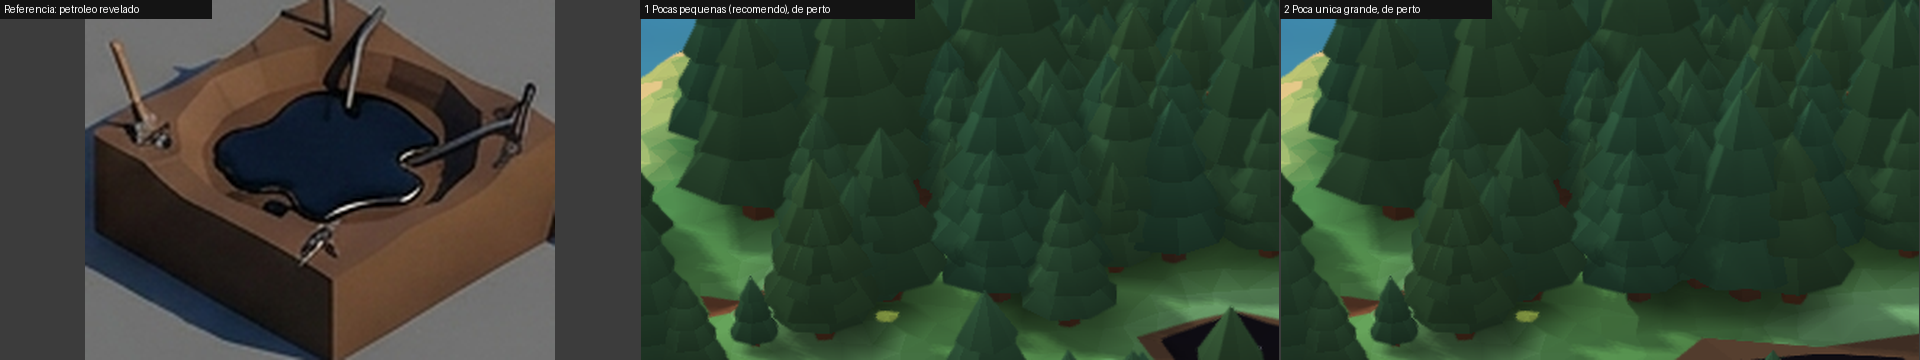
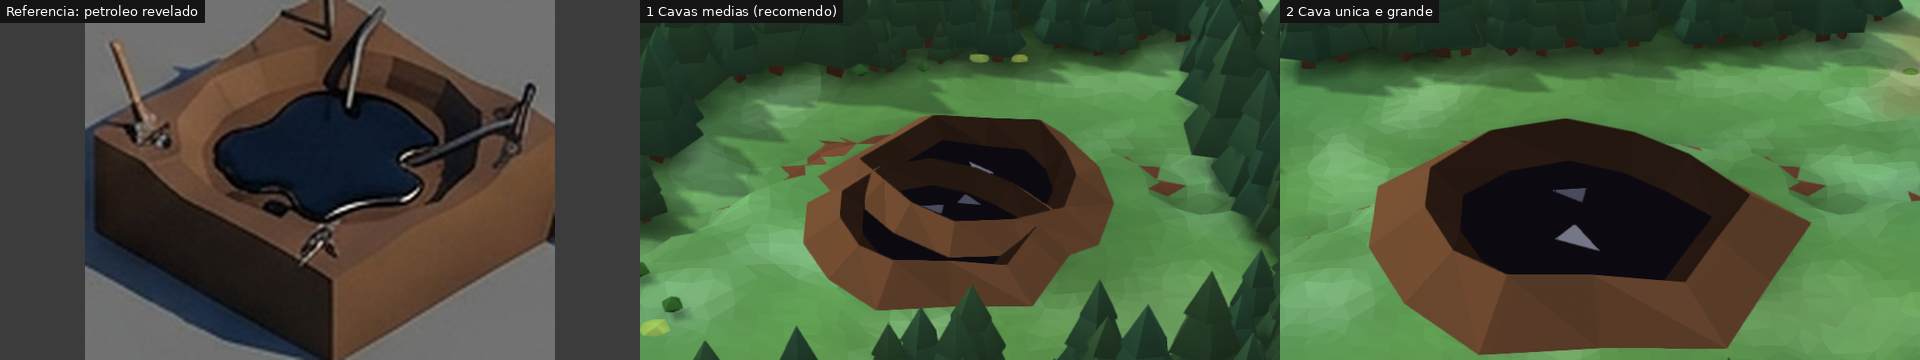
docs(m3): opções de ritmo do tempo, página de decisões no Firefox e lista de espécies; rios recalculados no máximo a cada 3 s

diff --git a/src/maquete/worker.ts b/src/maquete/worker.ts
@@ -17,6 +17,7 @@ export type FromMaqueteWorker =
 let world: CoarseWorld | null = null;
 let hydro: Hydro | null = null;
 let neighbors: Int32Array | null = null;
+let hydroAt = -Infinity;
 const scope = self as unknown as { postMessage(m: FromMaqueteWorker, t?: Transferable[]): void; onmessage: (e: MessageEvent<ToMaqueteWorker>) => void };
 
 /** Compara duas cópias e devolve os pedaços afetados (a borda de um pedaço enxerga 3 células de fora). */
@@ -43,7 +44,10 @@ scope.onmessage = (e) => {
     setDepositLook(m.stones, m.oil);
     // Os rios só mudam quando o relevo muda.
     const sameHeight = world && world.n === m.world.n && world.height.every((h, i) => h === m.world.height[i]);
-    if (!sameHeight || !hydro) {
+    // Os rios são caros (cerca de 200 ms): no máximo um recálculo a cada 3 s, para não atrasar os pedaços.
+    const nowMs = performance.now();
+    if (!hydro || (!sameHeight && nowMs - hydroAt > 3000)) {
+      hydroAt = nowMs;
       neighbors ??= neighborTable(m.world.n);
       hydro = computeHydro(m.world.n, m.world.height, m.world.rgba, m.world.ice, neighbors);
     }

diff --git a/docs/M3-decisoes-maquete.md b/docs/M3-decisoes-maquete.md
@@ -1,50 +1,53 @@
 # Decisões visuais da maquete
 
-Capturas numa janela de navegador de 1920×1080, reduzidas na folha, ao lado das referências. Sempre no mesmo lugar e com o mesmo mundo (semente `terra`). Para ver no jogo, acrescente à URL da prévia: `?relevo=`, `?pedras=`, `?oleo=`, `?aa=`.
+Capturas no **Firefox 158, em janela de 1920×1080**, reduzidas na folha, ao lado das referências. Mesmo mundo (semente `terra`) e mesmo lugar em cada comparação. Para ver no jogo, acrescente à URL da prévia: `&relevo=`, `&pedras=`, `&oleo=`, `&aa=`.
 
-GPU medida na entrada da maquete, build de desenvolvimento, sem janela, 1080p, numa rodada só: diferenças de menos de 0,5 ms ficam dentro da variação.
+GPU medida no Chromium com o relógio da GPU, numa rodada só, antes destes últimos ajustes; diferenças de menos de 0,5 ms ficam dentro da variação. O seu relatório no Firefox decide.
 
 ## 1. Relevo
 ![relevo](img/m3/dec-relevo.png)
 
-| Opção | Encosta entre patamares | Terra à mostra | GPU |
-|---|---|---|---:|
-| **1 Terraços ligados (recomendo, já no jogo)** `terraco` | 1,3 célula de largura, inclinação ~0,5 | sim | 6,4 ms |
-| 2 Rampas longas `rampa` | 5 células, inclinação ~0,12 | não | 6,6 ms |
-| 3 Degrau alto `degrau` | 0,55 célula, inclinação ~1,1 | sim | 7,0 ms |
-| 4 Encosta lisa `lisa` | sem patamar | não | 6,9 ms |
-
-**Recomendo a 1:** é a mais próxima dos blocos 4 e 5 e ninguém fica preso, porque a inclinação cabe numa caminhada. As inclinações são conta, sem teste: ainda não há humanos andando (M4). Em todas, penhasco alto continua só na montanha e o deserto mantém os patamares largos.
-
-## 2. Pedrinhas das jazidas
-![pedras](img/m3/dec-pedras.png)
-
-| Opção | O que é | GPU |
+| Opção | Encosta entre patamares | GPU |
 |---|---|---:|
-| **1 Amontoados grandes (recomendo, já no jogo)** | 2 por célula, tamanho da folha | 6,4 ms |
-| 2 Pedras miúdas `pedras=miudas` | 4 por célula, metade do tamanho | 6,6 ms |
+| **1 Terraços ligados (recomendo, no jogo)** `terraco` | Curta, com terra à mostra | 6,4 ms |
+| 2 Rampas longas `rampa` | Larga, sem terra | 6,6 ms |
+| 3 Degrau alto `degrau` | Quase parede, com terra | 7,0 ms |
+| 4 Encosta lisa `lisa` | Sem patamar | 6,9 ms |
 
-**Recomendo a 1:** é a proporção de `recursos/jazidas.png` e dá para reconhecer o minério na entrada da maquete.
+**Recomendo a 1:** é a mais próxima dos blocos 4 e 5. Ninguém anda ainda de verdade neles: isso só será testado com os humanos (M4).
+
+## 2. Jazidas: afloramento de rocha manchada
+![jazidas](img/m3/dec-pedras.png)
+
+| Opção | O que é |
+|---|---|
+| **1 Lajes baixas (recomendo, no jogo)** | Uma laje por célula, com a mancha do minério no chão |
+| 2 Lajes menores, em dobro `pedras=miudas` | Duas por célula, menores, mais espalhadas |
+
+**Recomendo a 1:** lê como rocha aflorando, sem virar monte. **A referência serve só para a cor:** a sua decisão trocou os montes da folha pelo afloramento, e não há folha desenhada dele.
 
 ## 3. Petróleo aparente
-![óleo](img/m3/dec-oleo.png)
+![petróleo](img/m3/dec-oleo.png)
 
-| Opção | O que é | GPU |
-|---|---|---:|
-| **1 Poças pequenas (recomendo, já no jogo)** | até 1 poça em cada 3 células da mancha aparente | sem diferença medida |
-| 2 Poça única grande `oleo=unica` | 1 em cada 8 células, o dobro do tamanho | sem diferença medida |
+| Opção | O que é |
+|---|---|
+| **1 Cavas médias (recomendo, no jogo)** | Cerca de 1 cava a cada 5 células da mancha aparente |
+| 2 Cava única e grande `oleo=unica` | 1 cava a cada 10 células, maior |
 
-**Recomendo a 1:** a mancha lê como campo de petróleo sem abrir crateras no terreno. **Limite:** na semente `terra` só há mancha aparente dentro da taiga, por isso a poça aparece entre os pinheiros, com as árvores abrindo espaço. Em qualquer opção, a poça é só desenho: o globo e o mundo não mudam (`docs/M3-maquete.md`).
+**Recomendo a 1:** uma cava sozinha fica fácil de achar, e várias perto contam que ali há um campo. Em ambas, as árvores abrem espaço em volta.
 
 ## 4. Suavização
-Recorte aumentado 4×, para ver as bordas; em tamanho normal a diferença é bem menor.
+Recorte aumentado 4×; em tamanho normal a diferença é bem menor.
 
 ![suavização](img/m3/dec-suavizacao.png)
 
-| Opção | Entrada | De perto | Efeito |
+| Opção | GPU, entrada | GPU, de perto | Efeito |
 |---|---:|---:|---|
-| **FXAA (recomendo, já no jogo)** | 6,4 ms | 5,6 ms | Bordas lisas; interior das faces um pouco mais macio |
+| **FXAA (recomendo, no jogo)** | 6,4 ms | 5,6 ms | Bordas lisas, faces um pouco mais macias |
 | MSAA 4× `aa=msaa4` | **12,0 ms** | **9,1 ms** | Bordas mais nítidas; **estoura a meta de 8 ms** |
 | Sem suavização `aa=off` | 5,2 ms | 4,5 ms | Serrilhado visível |
 
-**Recomendo FXAA.** O MSAA 4× só caberia baixando outra coisa, então fica fora, a não ser que você prefira assim.
+## 5. Animais
+![animais](img/m3/dec-animais.png)
+
+Corpos mais cheios, em grupos por espécie, andando e comendo com movimento contínuo. **Ainda diferem das folhas:** silhueta mais simples, com listras e pintas por faceta. Sua decisão aqui é: **está bom para seguir, ou quer outra rodada de forma antes da ecologia.** Recomendo seguir e voltar à forma no acabamento (M8), porque a ecologia muda só o comportamento.

diff --git a/docs/M3-ritmo-do-tempo.md b/docs/M3-ritmo-do-tempo.md
@@ -1,0 +1,16 @@
+# Decisão: o ritmo do tempo na maquete (B1)
+
+**O problema:** em 1×, um ano de jogo passa em 1 segundo. O mundo está em escala de anos e o animal está em escala de segundos: a floresta queima e volta enquanto o animal dá uns 5 passos. Hoje a simulação continua igual; nada desta página tem código.
+
+| Opção | O que se vê | Trabalho | Desempenho | O que muda no jogo |
+|---|---|---|---:|---|
+| 1 Tempo desacelera sozinho na maquete | Em 1×, ao entrar, o tempo cai para ~1/12 (1 mês por segundo); o fogo anda em minutos. Ao sair, volta | Pouco | Melhor: menos passos | O planeta anda mais devagar enquanto se olha de perto; o selo mostra "1×" e o ritmo da maquete. Uma data nova, por mês |
+| 2 Fogo e desastres só desenhados devagar | O relógio não muda; o fogo se espalha aos poucos no desenho, atrás do que já aconteceu | Grande: um "atraso" para cada efeito, com regras de quando alcançar | Um pouco pior | O mundo não muda, mas o que se vê fica atrás do que é verdade: o toque e o desenho podem discordar |
+| 3 Animais aceleram com o tempo | Animais a 12× e mais: correm como em filme acelerado | Mínimo | Igual | Nada muda no mundo, mas não fica liso nem bonito de ver |
+| 4 Eventos mais demorados na simulação | Fogo e recuperação levam 10 a 30× mais anos, no globo também | Médio: mexe em fogo, seca e recuperação, e nos testes | Igual | Muda o que foi aprovado no M2: no globo o incêndio dura dezenas de anos de jogo |
+| **5 Misto: 1 com o desenho suave (recomendo)** | Na maquete, ~1/12 do tempo; chamas e mudas entrando aos poucos entre um passo e outro | Médio | Melhor: menos passos | Como a 1. Acima de 1× (5×, 20×, Máx), o tempo segue como escolhido e sem desacelerar |
+| 6 Deixar como está | O que se vê hoje | Nenhum | Igual | Nada |
+
+**Recomendo a 5:** é a única em que fogo, animais e chuva ficam na mesma escala, e o resto do mundo segue fiel. O efeito a saber: enquanto você olha de perto em 1×, o planeta inteiro anda mais devagar. A escolha de 5×, 20× ou Máx continua valendo na hora, e o relógio nunca muda sem aparecer na tela.
+
+**Se você escolher a 1 ou a 5:** a data passa a mostrar o mês na maquete. A ecologia do bloco seguinte anda no mesmo relógio.

diff --git a/docs/estado-atual.md b/docs/estado-atual.md
@@ -6,9 +6,11 @@ O Claude Code reescreve este arquivo ao fim de cada tarefa. Se outro documento d
 estamos", vale este.
 
 ## Bloco "fazer a maquete funcionar"
+**Parado no fim do bloco, esperando o usuário:** testes, "Medir desempenho" no Firefox em tela cheia, e as decisões: ritmo do tempo (`docs/M3-ritmo-do-tempo.md`), visuais (`docs/M3-decisoes-maquete.md`), lista de espécies (`docs/M3-lista-especies.md`). Depois: simulação da ecologia, a partir da E1.
+
 Decisões em `docs/decisoes.md`. **A medição que vale é o "Medir desempenho" no Firefox do usuário, em tela cheia, na tomada;** as capturas também saem do Firefox, em janela de 1920×1080.
 - [x] A1 tranco no corte (`docs/M3-defeitos.md`) · [x] A2 setas (parcial, ver `docs/M3-defeitos.md`) · [x] A3 pausa · [x] A4 animal sem cabeça · [x] A5 bolas brancas · [x] A6 mancha do terremoto · [x] A7 fumaça · [x] A8 GPU da transição (`docs/M3-defeitos.md`)
-- [ ] B1 opções de ritmo · [x] B2 animação lisa · [x] B3 seca suave
+- [x] B1 opções de ritmo (`docs/M3-ritmo-do-tempo.md`; sem código até a escolha) · [x] B2 animação lisa · [x] B3 seca suave
 - [x] C1 meteoro · [x] C2 tsunami · [x] C3 furacão · [x] C4 raio · [x] C5 fogo (ritmo depende de B1) · [x] C6 tempestade de areia · [x] C7 terremoto
 - [x] D1 animais (corpo e rig; conferir nas folhas) · [x] D2 grupos · [x] D3 geleira · [x] D4 deserto · [x] D5 montanhas · [x] D6 terraços · [x] D7 jazidas · [x] D8 petróleo
 

diff --git a/docs/M3-lista-especies.md b/docs/M3-lista-especies.md
@@ -1,0 +1,14 @@
+# Decisão: lista de espécies no menu, com ícones no globo
+
+Maquetes de interface sobre uma captura do Firefox a 1920×1080. **Os números são de exemplo:** a população só existe depois da ecologia (E2). Nada desta página tem código.
+
+![opções](img/m3/dec-especies.png)
+
+| Opção | Como funciona | Trabalho | Desempenho |
+|---|---|---|---|
+| **1 Cartão no menu, em grade (recomendo)** | Novo cartão "Vida" no menu, como os outros; tocar numa espécie põe ícones no globo | Pouco: usa o cartão que já existe | Só desenha ícones de uma espécie |
+| 2 Lista lateral, por grupo de bioma | Painel próprio à esquerda, com rolagem | Médio: painel novo; cobre parte do globo | Igual |
+| 3 Faixa no rodapé com bolhas de contagem | Espécies em fila; no globo, uma bolha por região com o número | Médio: agrupar os ícones por zoom | Igual, com conta extra de agrupamento |
+| 4 Mancha de onde vive | Mancha colorida de longe e ícones só ao aproximar | Grande: a mancha entra no desenho do globo aprovado | Custo a medir no globo |
+
+**Recomendo a 1:** é o mesmo gesto do resto do jogo, funciona bem por toque, e não mexe no globo aprovado. O ícone de cada espécie sai de uma pose das folhas em `animais/`.
